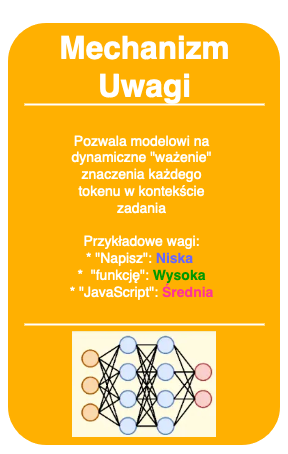
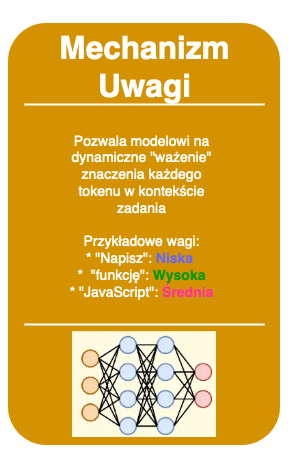
AI follow up: continuation (#83)
* od 4 do 6

* few small code adjustments

* little joke added

* od 5 do 7

* formatting fixes + new slide

* further work

* formatting fixes

* Linked follow-up from README

* moar images

* uwagi od Leny Sędkiewicz :)

* praktyka

* feat: bonusowe slajdy na zakonczenie

* formatowanie

* wincyj formatowania

* feat: tresc bonusowych slajdow na koniec

* zmiana kolorów

* changed specificity of one selector

---------

diff --git a/follow-ups/ai-assisted-coding/index.html b/follow-ups/ai-assisted-coding/index.html
@@ -50,7 +50,7 @@
 			<section data-markdown="slides/06_prompt-engineering.md" data-separator-vertical="^\r?\n\r?\n\r?\n"></section>
 			<section data-markdown="slides/07_bezpieczenstwo_i_etyka.md" data-separator-vertical="^\r?\n\r?\n\r?\n"></section>
 			<section data-markdown="slides/08_praktyka.md" data-separator-vertical="^\r?\n\r?\n\r?\n"></section>
-			<!-- <section data-markdown="slides/09_bullshit.md" data-separator-vertical="^\r?\n\r?\n\r?\n"></section> -->
+			<section data-markdown="slides/09_bullshit.md" data-separator-vertical="^\r?\n\r?\n\r?\n"></section>
 			<section>
 				<h3>Dziękujemy za udział!</h3>
 				<div class="big-logo">

diff --git a/follow-ups/ai-assisted-coding/dist/custom.css b/follow-ups/ai-assisted-coding/dist/custom.css
@@ -356,3 +356,17 @@ figure a:before {
   padding: 0.2em 0;
   border-radius: 15px;
 }
+
+code.prompt::before {
+  content: "\f120";
+  font-family: 'FontAwesome';
+  margin-right: 0.5em;
+}
+
+code.prompt {
+  background: rgba(0, 0, 0, 0.1);
+  padding: 0.5em;
+  border-radius: 5px;
+  display: flex;
+  text-align: left;
+}

diff --git a/follow-ups/ai-assisted-coding/slides/08_praktyka.md b/follow-ups/ai-assisted-coding/slides/08_praktyka.md
@@ -8,22 +8,13 @@ Jak w praktyce możemy korzystać z asystentów?
 
 Smutna prawda jest taka, że nie ma rozwiązań darmowych*
 
-note:
-podobno github oferuje Copilota za darmo studentom oraz kontrybutorom open source
-do pewnego stopnia darmowy jest asystent o nazwie bito.ai
+note: podobno github oferuje Copilota za darmo studentom oraz kontrybutorom open source
 
 
 Nawet ChatGPT w wersji "darmowej" jest limitowany do konkretnej liczby zapytań dziennie
 
 
 Dobra wiadomość jest taka, że niektórzy producenci asystentów AI oferują darmowy okres próbny, dzięki czemu można przynajmniej sprawdzić, czy faktycznie to się przydaje
-
-
-### Dygresja (acz nie całkiem)
-
-Konto openAI to nie jest to samo, co konto ChatGPT.\
-Rozszerzenia VS Code oferujące ChatGPT zwykle wymagają wklejenia klucza API z openAI.\
-Jeśli masz wykupionego Chata GPT, nie uda Ci się wygenerować klucza API.
 
 
 ## Sprawdzamy!
@@ -38,12 +29,82 @@ Jeśli masz wykupionego Chata GPT, nie uda Ci się wygenerować klucza API.
   - można pisać prompty w komentarzach w kodzie i asystent powinien to wychwycić <!-- .element: class="fragment fade-in" -->
 
 
-### Poproś asystenta o pomoc przy:
-
-- stworzeniu funkcji konwertującej stopnie Celsjusza na Fahrenheita
-- napisaniu prostej funkcji pobierającej dane z API Instagrama
-- napisaniu funkcji obliczającej silnię (działanie matematyczne)
-- wygenerowaniu testów jednostkowych do w/w funkcji
+### Instalacja Copilota
 
 
-### Czy jesteś zadowolona z pomocy asystenta?
+### Tetsujemy czy wszystko działa
+Utwórzmy w edytorze pusty plik z rozszerzeniem js i zacznijmy coś pisać (jak zwykle function)
+
+
+### Skróty klawiaturowe
+
+* Akceptuj sugestię — `Tab`
+* Odrzuć sugestię — `Esc`
+* Następna sugestia — `Alt` + `]` lub `⌥` + `]`
+* Poprzednia sugestia — `Alt` + `[` lub `⌥` + `[`
+* Wywołaj sugestię — `Alt` + `\` lub `⌥` + `\`
+* Okno chatu `Ctrl` + `Alt` + `I` lub\
+  `Ctrl` + `⌘` + `I`.
+* Okno chatu inline `Alt` + `I` lub `⌘` + `I`.
+
+
+
+### Gra "Zgadnij literę"
+Polega na zgadywaniu litery alfabetu wylosowanej przez komputer
+
+![](img/gra.png)<!-- .element: style="width: 40%" -->
+
+
+### Co jest potrzebne, żeby powstała aplikacja internetowa?
+
+![](img/document.png)<!-- .element: style="width: 30%" -->
+
+
+### Tworzymy index.html
+
+`Utwórz pusty dokument html z napisem Hello`<!-- .element: class="prompt" -->
+
+Uruchommy ten dokument w przeglądarce, że by zobaczyć jak obecnie wygląda
+
+
+
+### Dodajemy przycisk i pole do wpisania litery
+W dokumencie html zacznij pod nagłówkiem `<h1>` pisać `<button>`, 
+Copilot dokończy cały kod przycisku za Ciebie.
+
+Podobnie dodaj `<input>`
+
+
+### Programujemy zachowanie aplikacji w JS
+Wyniki zapytań mogą się różnić, dlatego musimy dostosowywać do nich dalsze kroki. 
+
+
+### Zacznijmy od wylosowania litery:
+
+`napisz funkcję losującą literę polskiego alfabetu od a do z`<!-- .element: class="prompt" -->
+
+
+### później mogą być potrzebne: 
+`po wejściu na stronę wylosuj literę a gdy użytkownik wpisze literę do inputu to porównaj ją z wylosowaną literą`<!-- .element: class="prompt" -->
+
+`pod inputem napisz czy odpowiedź była prawidłowa`<!-- .element: class="prompt" -->
+
+
+### Poprawiamy wygląd
+
+`Wygeneruj style dla przycisku oraz wyniku użytkownika w light mode w motywie neomorphic ui`<!-- .element: class="prompt" -->
+
+
+### Rozwijamy nasz program
+
+Czego tu brakuje? Jakie funkcjonalności możemy dodać? Zastanówmy się wspólnie i spróbujcie zrealizować któryś z tych pomysłów samodzielnie.
+
+
+### Można jeszcze szybciej
+
+Czemu nie poprosić od razu o cały program?
+
+`stwórz aplikację kalkulator w html js i css`<!-- .element: class="prompt" -->
+
+
+## Czy jesteś zadowolona z pomocy asystenta?

diff --git a/follow-ups/ai-assisted-coding/slides/09_bullshit.md b/follow-ups/ai-assisted-coding/slides/09_bullshit.md
@@ -1,7 +1,22 @@
 ## A co, jeśli asystent zmyśla?
 
-### czyli jak rozpoznać, że asystent się myli
+
+## Jak to tak naprawdę działa?
+- na początku był neuron
+- "Sieci neuronowe często określane są jako tzw. czarna skrzynka, z powodu tego że nie jest możliwe zrozumienie jak naprawdę działają, gdy używają dużej ilości parametrów" - Wikipedia
+- "Emergent behaviors" - zachowanie lub umiejętność modelu, która nie została w nim umieszczona przez autora, pojawia się w sposób nieprzewidywalny wraz z wzrostem ilości neuronów w sieci
+- podsumowując: nie wiadomo!!!
 
 
-- najprościej jest uruchomić kod wygenerowany przez asystenta i sprawdzić, czy działa
-- można też spytać go, czy jest pewny - jeśli zacznie kręcić, to znaczy, że nie jest
+## Kto trenuje algorytm?
+- LLM wie tylko to, czego mógł nauczyć się z danych treningowych
+- do trenowania modelu GTP-3.5 używane były dane do czerwca 2021, więc on nie wie o niczym, co wydarzyło się później
+- model GPT-3 uczy się głównie z Internetu, więc jego informacje mogą mieć zróżnicowaną wiarygodność, w zależności od tematu i jego popularności
+- Google ogłasza że model Gemini trenowany jest na Reddicie - użytkownicy Reddita trollują
+
+
+## Dead Internet Theory
+- internetowy end game: nic nie jest prawdą
+- już dziś szacuje się że ponad połowa profilów, komentarzy i polubień na Instagramie to boty
+- wraz ze wzrostem możliwości i popularności LLM, w internecie może być coraz trudniej o prawdziwą, ludzką interakcję
+- a może już teraz tak jest?

diff --git a/follow-ups/ai-assisted-coding/slides/06_prompt-engineering.md b/follow-ups/ai-assisted-coding/slides/06_prompt-engineering.md
@@ -81,3 +81,5 @@ Promptowanie oparte na łańcuchu myślenia (Chain-of-thought Prompting)
 Najlepiej jest zawrzeć w pytaniu jak najwięcej informacji i oczekiwań, jeśli mamy już jakiś pomysł na rozwiązanie. Jeśli wiemy bardzo mało, pozwólmy odpowiedzieć modelowi a potem zadawajmy dodatkowe pytania, żeby stopniowo dostosowywać odpowiedź. 
 
 Chat pamięta całą rozmowę otwartą w jednym oknie więc możemy odnosić się do jej kontekstu!
+
+note: czasem niestety ten kontekst bywa ograniczeniem, tj. ChatGPT kręci się wokół tego samego rodzaju rozwiązań nawet jak prosimy go, by spróbował inaczej. Jak widzimy, że biedak się zablokował otwieramy nowe okno i zadajemy pytanie precyzyjniej, na bazie zebranych informacji z pierwszego czatu. Zazwyczaj to pomaga :)
